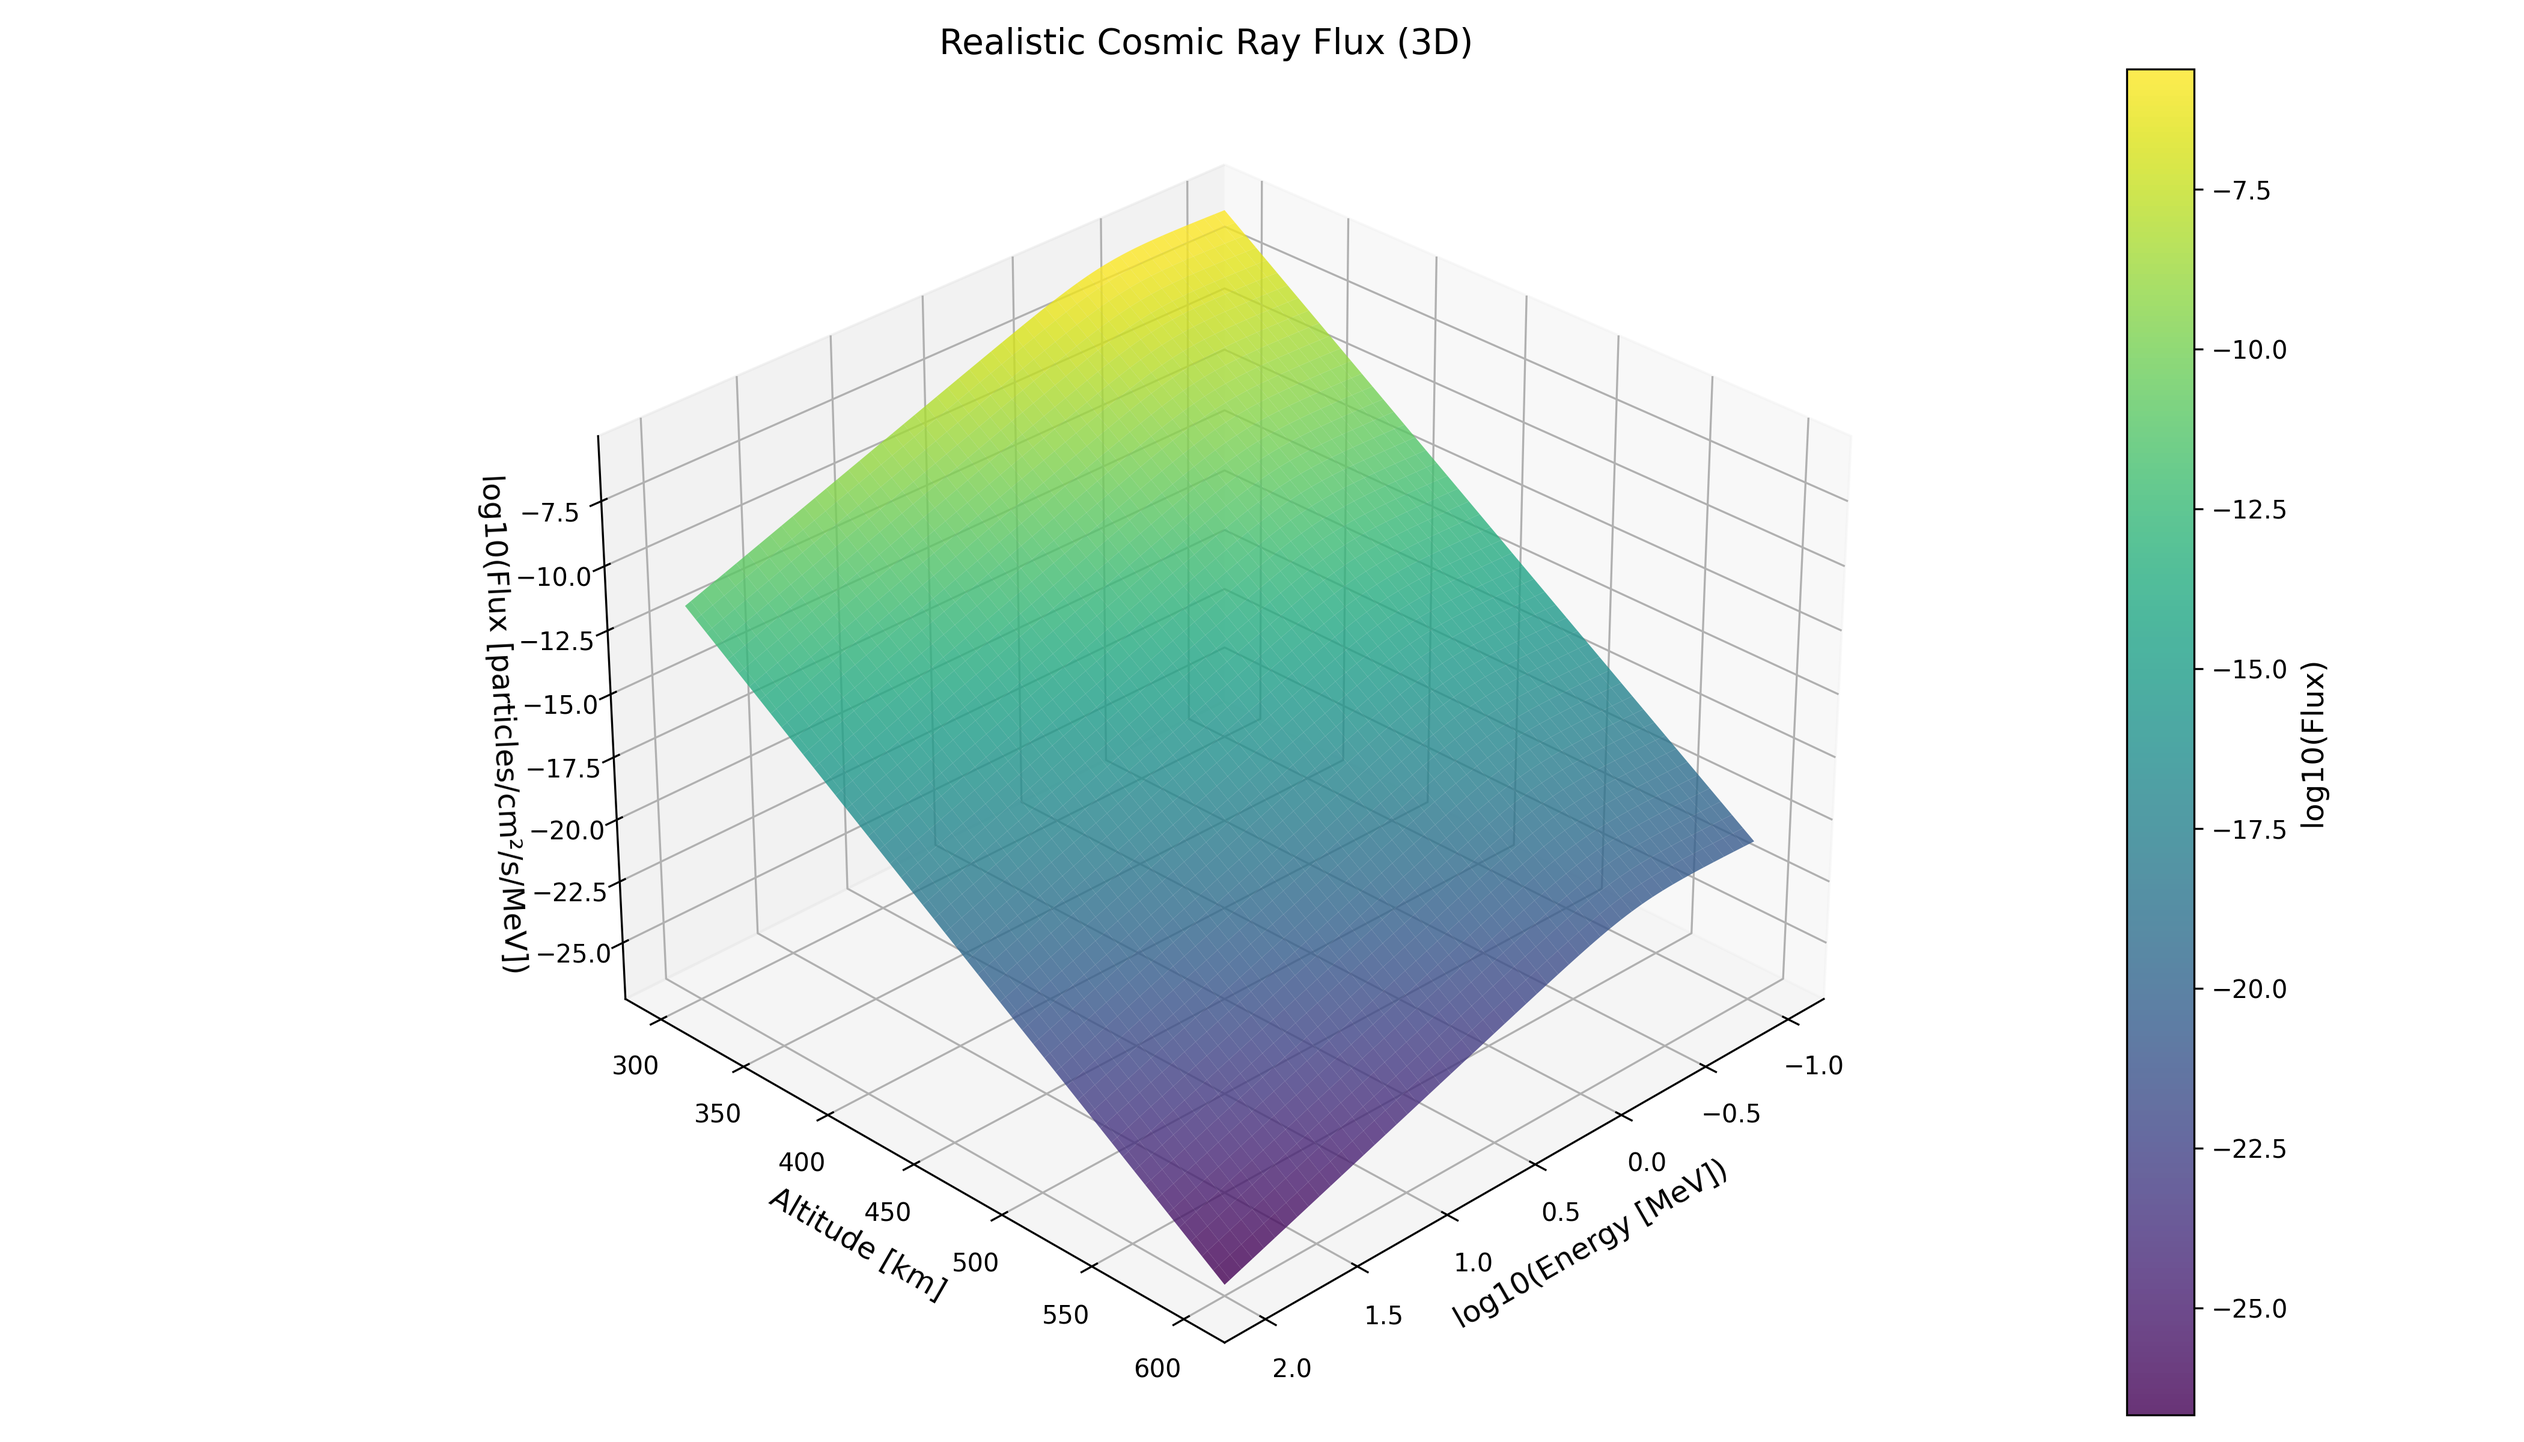
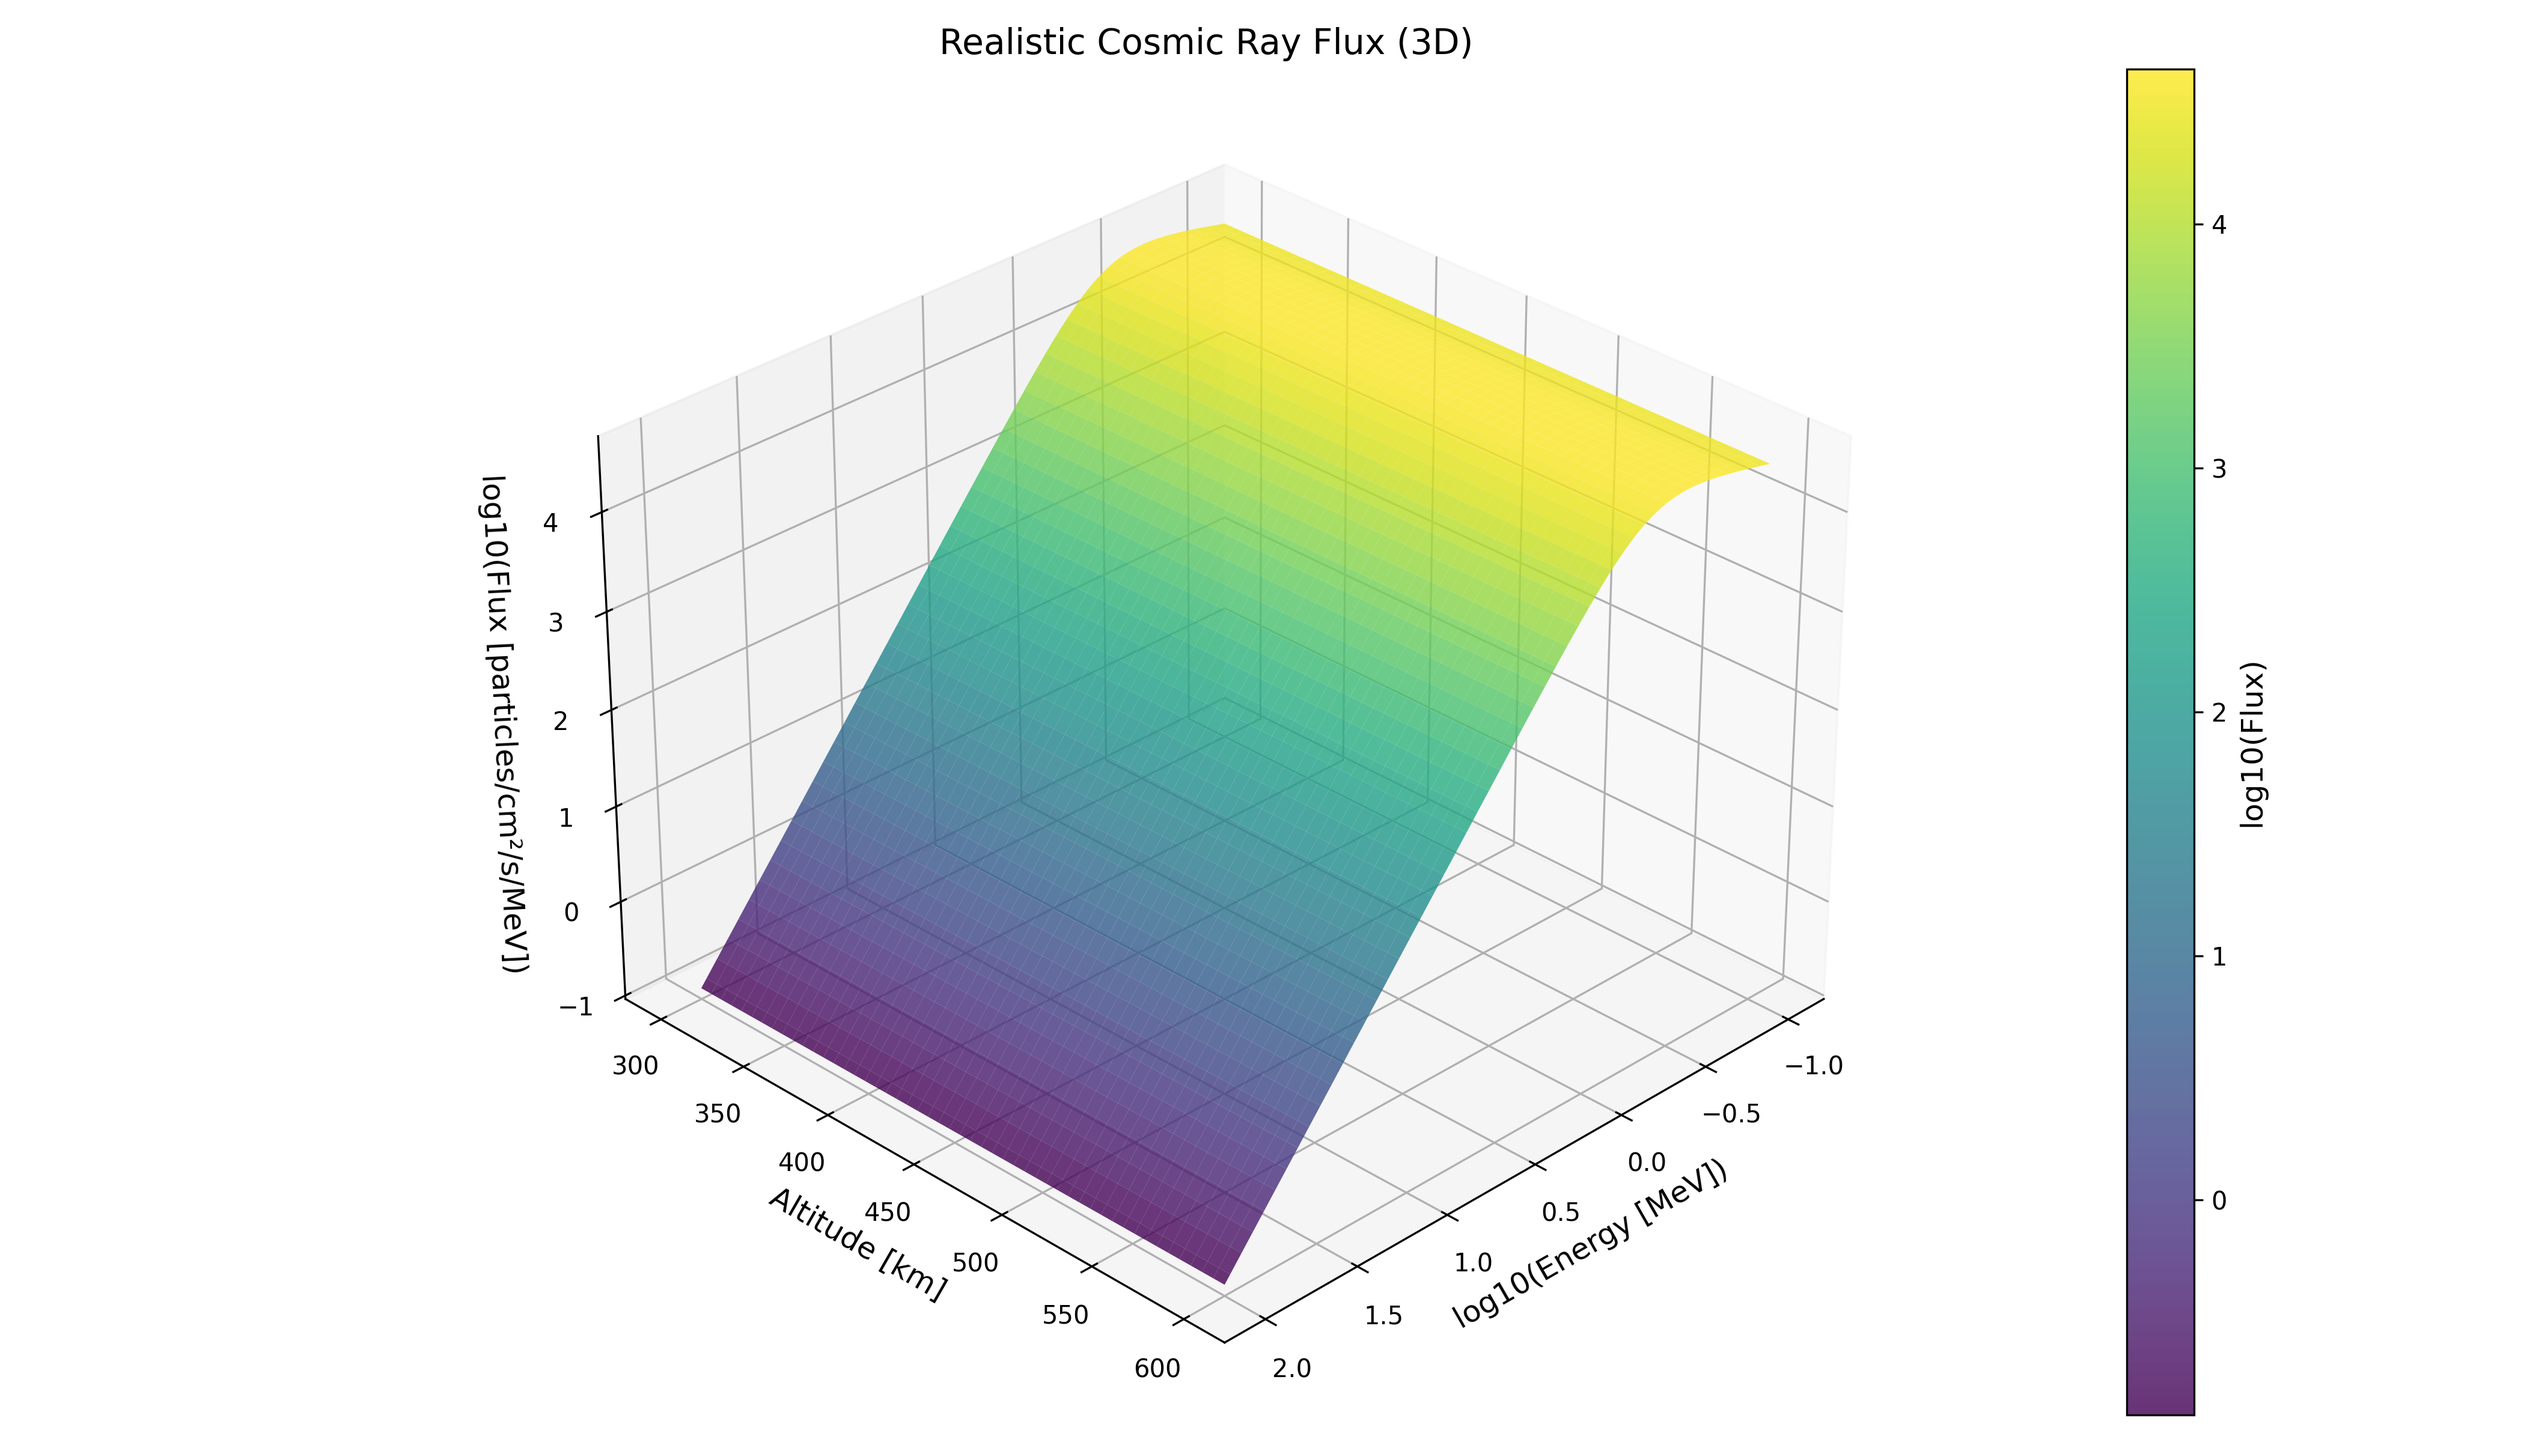
use functions from `main.py`

diff --git a/sims/code/04_flux_energy_altitude.py b/sims/code/04_flux_energy_altitude.py
@@ -1,35 +1,15 @@
 import numpy as np
 import matplotlib.pyplot as plt
 from mpl_toolkits.mplot3d import Axes3D
-
-class Detector:
-    def __init__(self):
-        self.energy_min = 0.05  # MeV (50 keV)
-        self.energy_max = 100   # MeV
-
-    def detect(self, energy):
-        """Check if energy is within detectable range."""
-        return (energy >= self.energy_min) & (energy <= self.energy_max)
-
-def cosmic_ray_flux(energy, altitude):
-    """Improved flux model with:
-       - Power-law spectrum
-       - Atmospheric attenuation (scale height)
-       - Geomagnetic cutoff (simplified)
-    """
-    base_flux = 1.2e4 * energy**(-2.7)  # Base GCR flux
-    attenuation = np.exp(-(altitude - 100) / 8.5)  # Atmospheric shielding
-    geomag_factor = 1 / (1 + (0.5 / energy)**3)  # Approx. cutoff at 0.5 GeV
-    return base_flux * attenuation * geomag_factor
+from main import *
 
 # Generate data
 energies = np.logspace(-1, 2, 100)  # 0.1 MeV to 100 MeV
 altitudes = np.linspace(300, 600, 50)  # 300–600 km
 E_grid, H_grid = np.meshgrid(energies, altitudes)
-flux_grid = cosmic_ray_flux(E_grid, H_grid)
+flux_grid = cosmic_ray.flux(E_grid, H_grid)
 
 # Apply detector constraints
-detector = Detector()
 flux_grid[~detector.detect(E_grid)] = np.nan  # Mask undetectable particles
 
 # Plot
